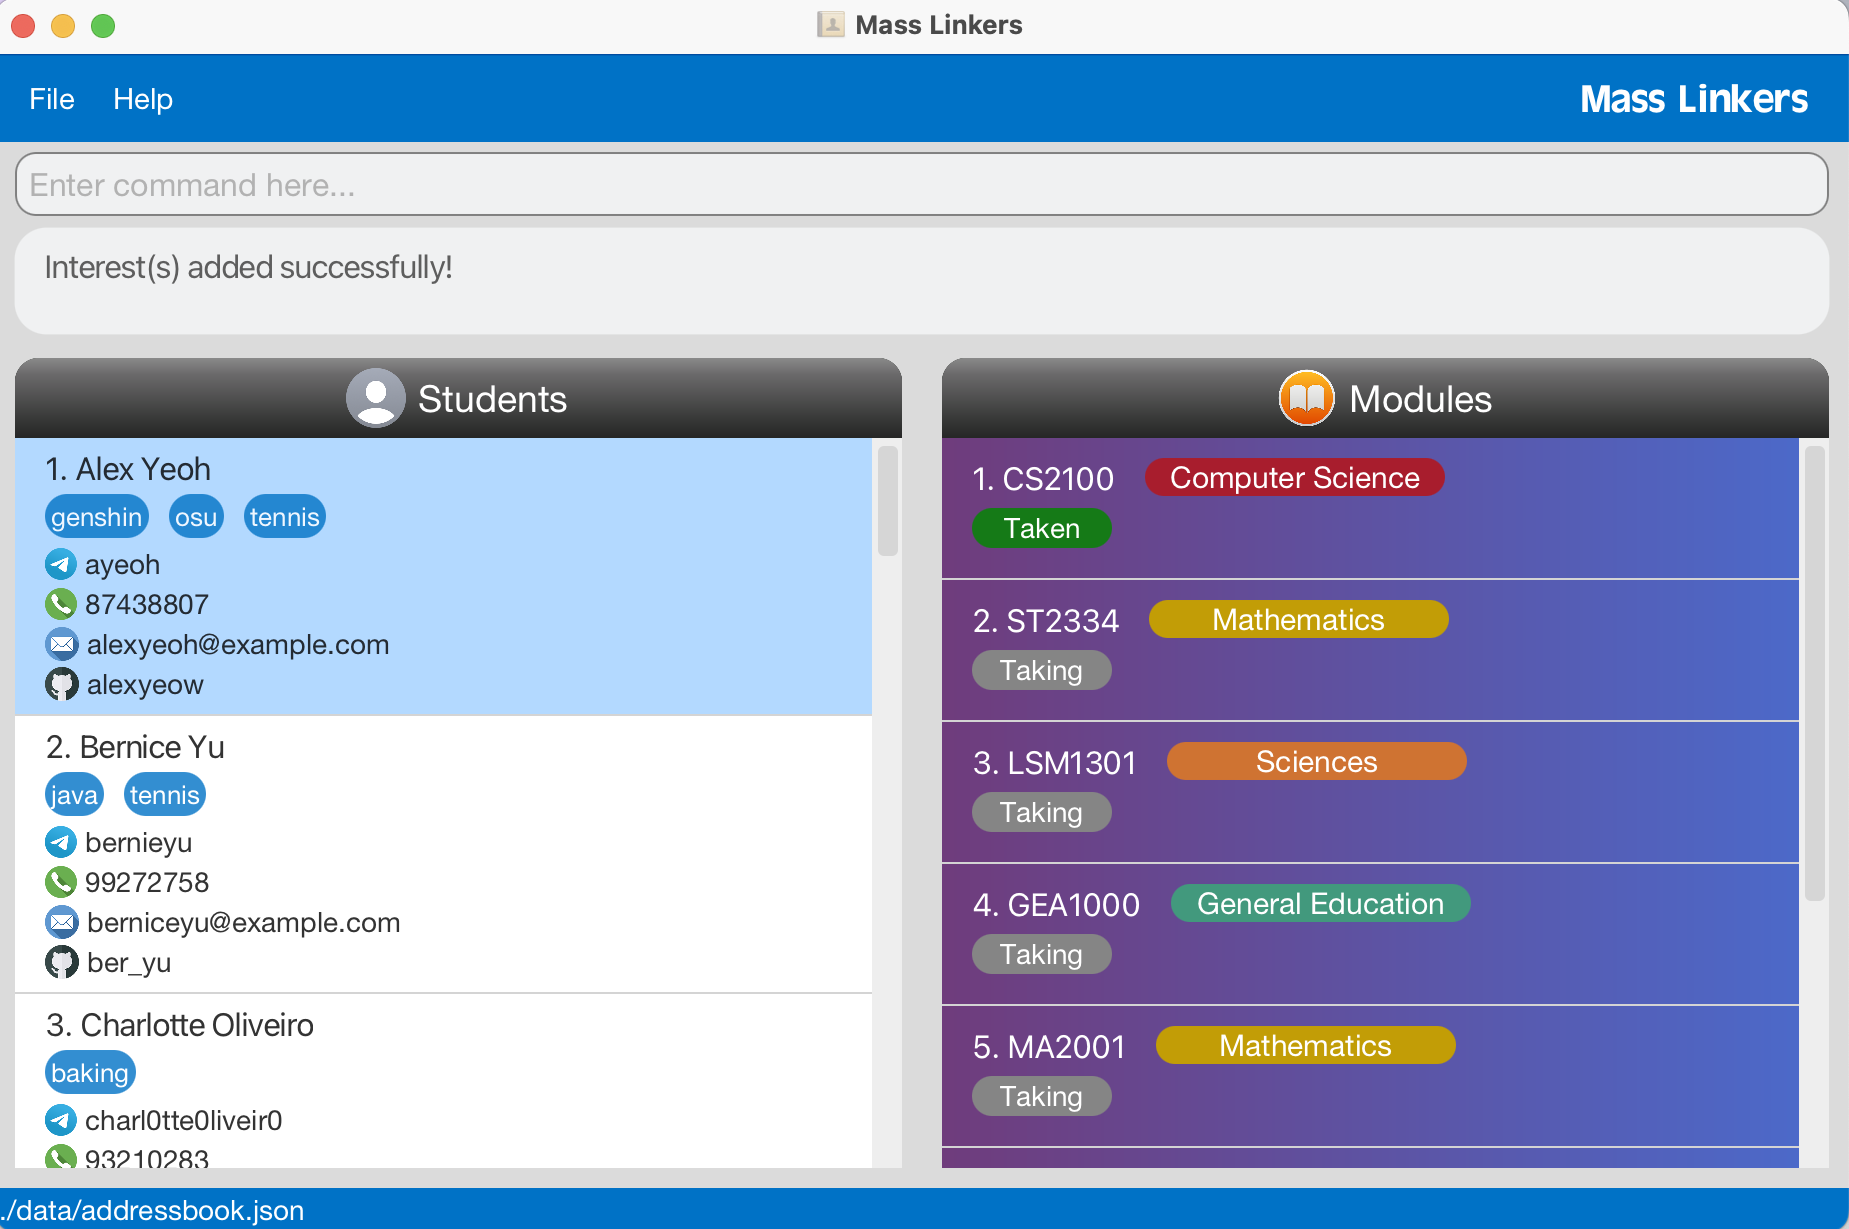
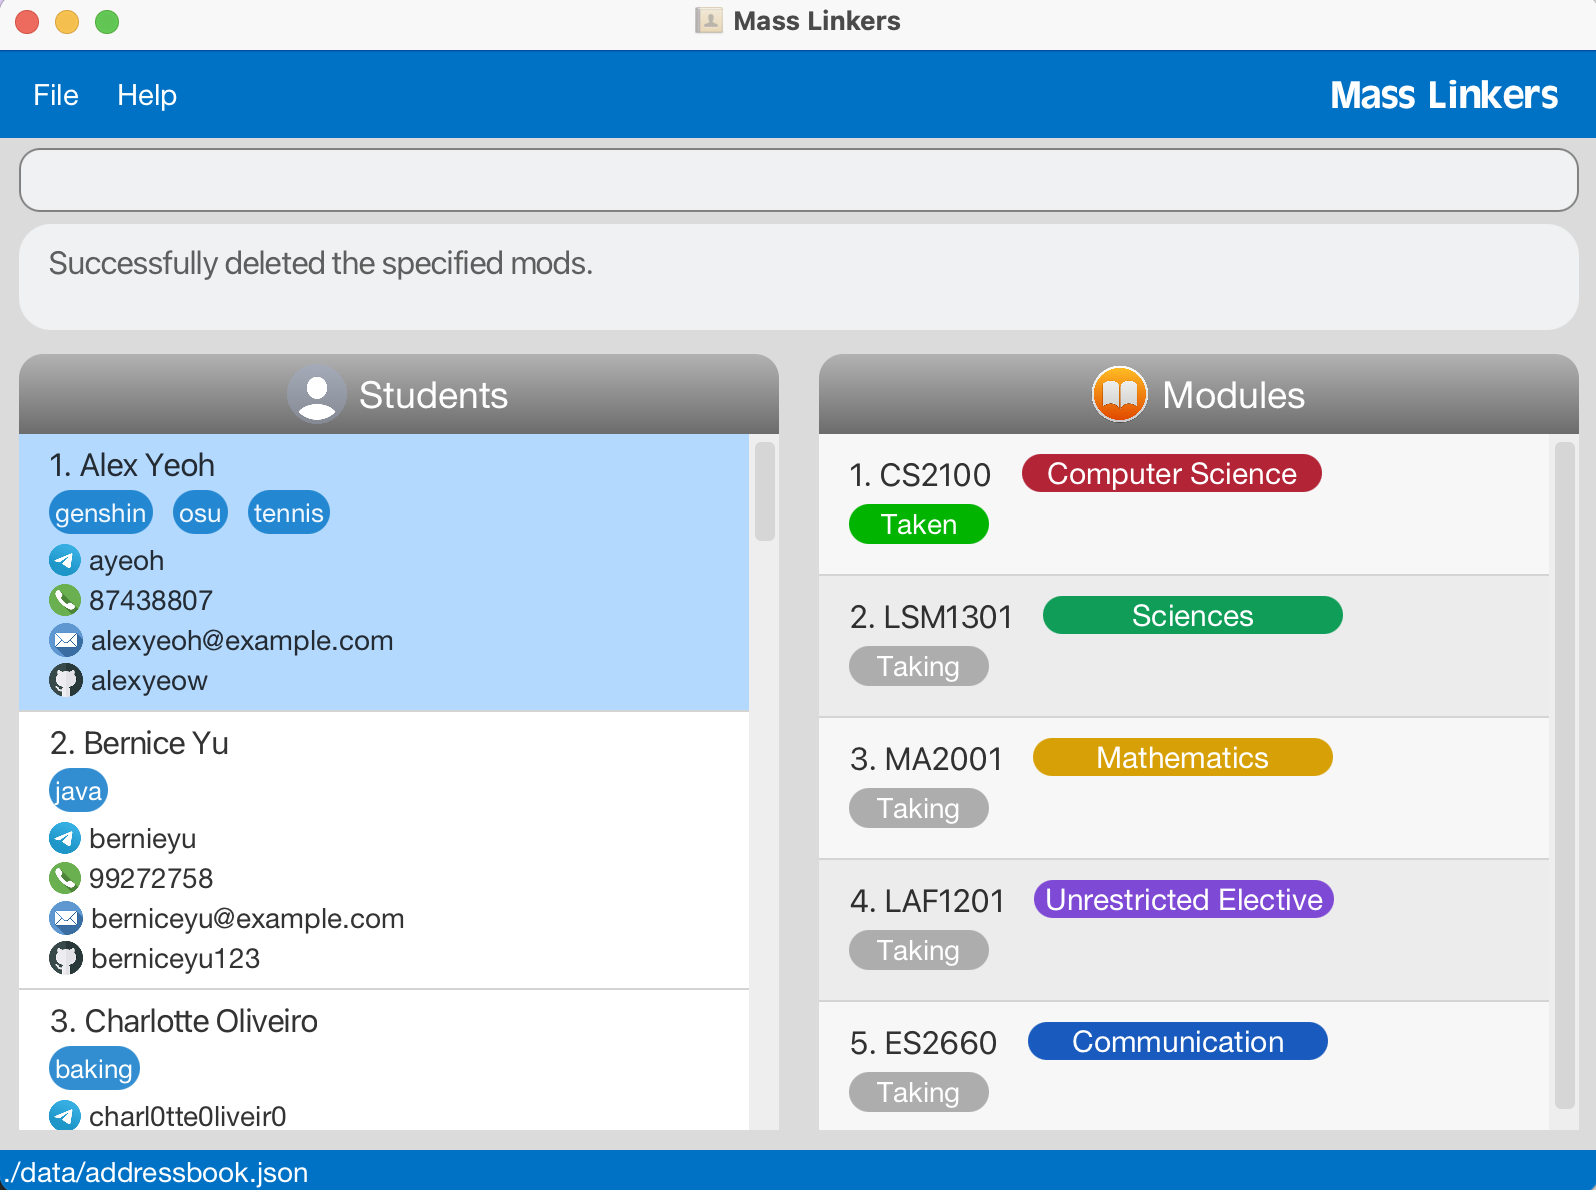
Change to cleaner design

diff --git a/src/main/resources/view/css/DarkTheme.css b/src/main/resources/view/css/DarkTheme.css
@@ -132,7 +132,7 @@
 }
 
 .list-cell:filled:odd {
-    -fx-background-color: #f7f7f7;
+    -fx-background-color: #ececec;
     -fx-border-width: 0 0 1 0;
     -fx-border-color: #d4d4d4;
 }
@@ -154,8 +154,8 @@
 #modName, #modId {
     -fx-font-family: "Segoe UI Semibold";
     -fx-font-size: 16px;
-    -fx-text-fill: white;
-    -fx-opacity: 1;
+    -fx-text-fill: black;
+    -fx-opacity: 0.8;
 }
 
 .cell_small_label {
@@ -186,12 +186,8 @@
 }
 
 #modHeader, #personHeader {
-    /* color referenced from https://introjava.wordpress.com/2012/03/23/java-fx-2-linear-gradients/*/
     -fx-background-color:
-            linear-gradient(#686868 0%, #232723 25%, #373837 75%, #757575 100%),
-            linear-gradient(#020b02, #3a3a3a),
-            linear-gradient(#9d9e9d 0%, #6b6a6b 20%, #343534 80%, #242424 100%),
-            linear-gradient(#8a8a8a 0%, #6b6a6b 20%, #343534 80%, #262626 100%);
+    linear-gradient(to top, #6c6c6c, #b2b2b2);
     -fx-background-radius: 12 12 0 0;
 }
 
@@ -364,10 +360,6 @@
 #cardPane {
     -fx-background-color: white;
     -fx-border-width: 0;
-}
-
-#modCardPane {
-    -fx-background-color: linear-gradient(to right, #6f3c7c, #4c69c9);
 }
 
 #commandTypeLabel {

diff --git a/src/main/java/seedu/address/ui/ModCard.java b/src/main/java/seedu/address/ui/ModCard.java
@@ -48,25 +48,25 @@ public class ModCard extends UiPart<Region> {
 
         // set color of category tag
         if (modCat.equals(Mod.ModCategory.COMP)) {
-            modCategory.setStyle("-fx-background-color: #a81d2d;");
+            modCategory.setStyle("-fx-background-color: #b32436;");
         } else if (modCat.equals(Mod.ModCategory.MATH)) {
-            modCategory.setStyle("-fx-background-color: #c29d06;");
+            modCategory.setStyle("-fx-background-color: #d7a006;");
         } else if (modCat.equals(Mod.ModCategory.SCI)) {
-            modCategory.setStyle("-fx-background-color: #cf7332;");
+            modCategory.setStyle("-fx-background-color: #0F9D58;");
         } else if (modCat.equals(Mod.ModCategory.COMMS)) {
-            modCategory.setStyle("-fx-background-color: #9f3cb6;");
+            modCategory.setStyle("-fx-background-color: #185abd;");
         } else if (modCat.equals(Mod.ModCategory.GE)) {
-            modCategory.setStyle("-fx-background-color: #42997d;");
+            modCategory.setStyle("-fx-background-color: #ce532f;");
         } else if (modCat.equals(Mod.ModCategory.UE)) {
-            modCategory.setStyle("-fx-background-color: #54789c;");
+            modCategory.setStyle("-fx-background-color: #7e49d5;");
         }
 
         boolean hasTaken = module.getModStatus();
         if (hasTaken) {
-            takenStatus.setStyle("-fx-background-color: #157a17;");
+            takenStatus.setStyle("-fx-background-color: #00b400;");
             takenStatus.setText("Taken");
         } else {
-            takenStatus.setStyle("-fx-background-color: #858585;");
+            takenStatus.setStyle("-fx-background-color: #adadad;");
             takenStatus.setText("Taking");
         }
     }
